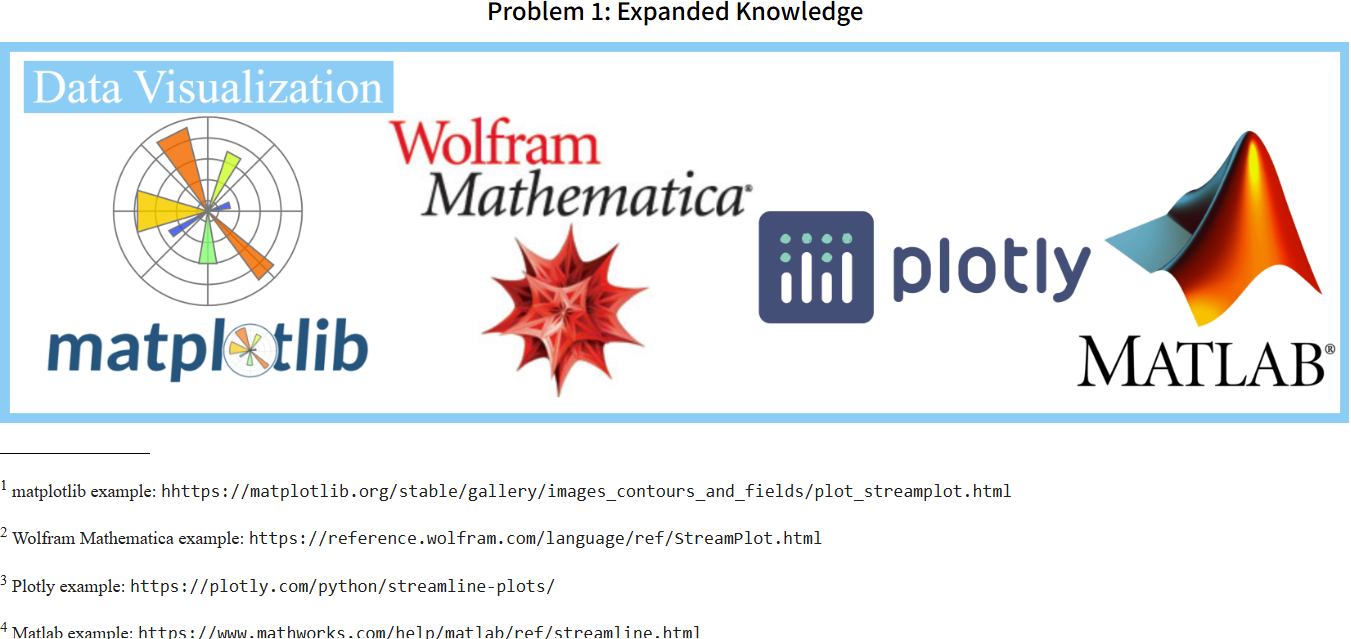
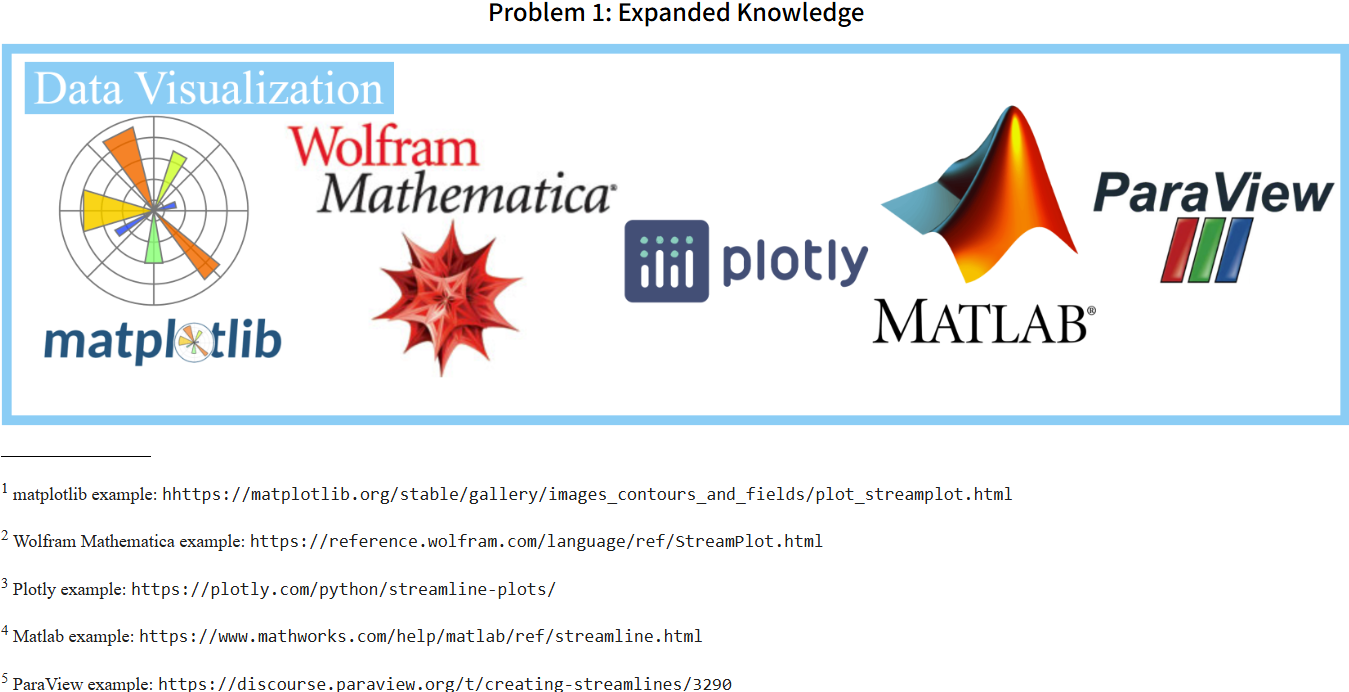
Update

diff --git a/PS1Slide17.html b/PS1Slide17.html
@@ -129,6 +129,10 @@ window.addEventListener('resize', scaleContainer);
                 <a href="https://www.mathworks.com/help/matlab/ref/streamline.html" target="_blank">
                     <code>https://www.mathworks.com/help/matlab/ref/streamline.html</code>
                 </a>
+                <p class="footnote"><sup>5</sup> ParaView example:
+                <a href="https://discourse.paraview.org/t/creating-streamlines/3290" target="_blank">
+                    <code>https://discourse.paraview.org/t/creating-streamlines/3290</code>
+                </a>
         </div>
 
         <!-- Navigation Arrows -->
